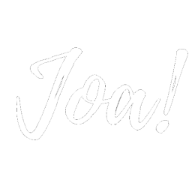
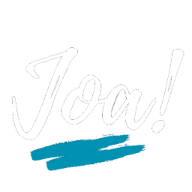
Componente Home listo

diff --git a/src/views/Home.jsx b/src/views/Home.jsx
@@ -2,8 +2,18 @@ function Home() {
 
   return (
     <>
-      <div className="min-h-views">
-        <h1 className="">Inicio</h1>
+      <div className="min-h-views text-white tracking-widest grid grid-cols-1 items-center justify-items-center">
+        <div className="col-1">
+          <p className="tracking-widest sm:text-xl">¡Hola! Soy</p><br />
+          <p className="font-bold text-2xl sm:text-5xl my-name">JOANNY WERNER</p>
+          <p className="tracking-tighter sm:text-2xl">Desarrollador Web</p><br />
+          <a 
+            className="bg-cyan-600 border-cyan-600 border-2 rounded p-2 hover:bg-gray-800 transition duration-700"
+            href='https://drive.google.com/file/d/1D6LUxy6Jf_bU7ZhK62MqDn_HrATOVz3m/view?usp=sharing'
+            target="_blank">
+              Descargar CV
+          </a>
+        </div>
       </div>
     </>
   )

diff --git a/src/views/Portfolio.jsx b/src/views/Portfolio.jsx
@@ -2,8 +2,11 @@ function Portfolio() {
 
   return (
     <>
-      <div className="min-h-views">
-        <h1 className="">Portafolio</h1>
+      <div className="min-h-views text-white tracking-widest grid grid-cols-1 items-center justify-items-center">
+        <div className="col-1 text-xl text-center">
+          <p className="tracking-widest">Portafolio</p><br />
+          <p className="tracking-tighter">Servicio en mantenimiento...</p>        
+        </div>
       </div>
     </>
   )

diff --git a/src/components/Navbar.jsx b/src/components/Navbar.jsx
@@ -74,7 +74,7 @@ export default function Navbar() {
                     <div className="flex-shrink-0">
                       <img
                         className="h-12 w-12"
-                        src="https://res.cloudinary.com/dqjnzfsp6/image/upload/v1685731491/logoJoa_urelec.png"
+                        src="https://res.cloudinary.com/dqjnzfsp6/image/upload/v1686012371/logoJoa-_hbupyw.png"
                         alt="My Logo"
                       />
                     </div>

diff --git a/src/views/About.jsx b/src/views/About.jsx
@@ -2,8 +2,11 @@ function About() {
 
   return (
     <>
-      <div className="min-h-views">
-        <h1 className="">Sobre Mí</h1>
+      <div className="min-h-views text-white tracking-widest grid grid-cols-1 items-center justify-items-center">
+        <div className="col-1 text-xl text-center">
+          <p className="tracking-widest">Sobre Mí</p><br />
+          <p className="tracking-tighter">Servicio en mantenimiento...</p>        
+        </div>
       </div>
     </>
   )

diff --git a/src/views/Contact.jsx b/src/views/Contact.jsx
@@ -2,8 +2,11 @@ function Contact() {
 
   return (
     <>
-      <div className="min-h-views">
-        <h1 className="">Contacto</h1>
+      <div className="min-h-views text-white tracking-widest grid grid-cols-1 items-center justify-items-center">
+        <div className="col-1 text-xl text-center">
+          <p className="tracking-widest">Contacto</p><br />
+          <p className="tracking-tighter">Servicio en mantenimiento...</p>        
+        </div>
       </div>
     </>
   )

diff --git a/src/components/Footer.jsx b/src/components/Footer.jsx
@@ -8,7 +8,7 @@ function Footer() {
       <div className="bg-gray-800 flex flex-col items-center min-h-footer">
         <img
           className="h-24 w-24"
-          src="https://res.cloudinary.com/dqjnzfsp6/image/upload/v1685731491/logoJoa_urelec.png"
+          src="https://res.cloudinary.com/dqjnzfsp6/image/upload/v1686012371/logoJoa-_hbupyw.png"
           alt="My Logo"
         />
         <div className="text-gray-800 w-full flex justify-center gap-5 mb-5">

diff --git a/src/views/Blog.jsx b/src/views/Blog.jsx
@@ -2,8 +2,11 @@ function Blog() {
 
   return (
     <>
-      <div className="">
-        <h1 className="">Blog</h1>
+      <div className="min-h-views text-white tracking-widest grid grid-cols-1 items-center justify-items-center">
+        <div className="col-1 text-xl text-center">
+          <p className="tracking-widest">Blog</p><br />
+          <p className="tracking-tighter">Servicio en mantenimiento...</p>        
+        </div>
       </div>
     </>
   )

diff --git a/src/style.css b/src/style.css
@@ -1,11 +1,20 @@
 .min-h-navbar {
-  min-height: 10vh;
+  min-height: 7vh;
 }
 
 .min-h-views {
-  min-height: 65vh;
+  min-height: 67vh;
+  background-color: #1F2937; /* Gray 800 */
 }
 
 .min-h-footer {
-  min-height: 25vh;
+  min-height: 26vh;
 }
+
+/*** component Home ***/
+
+.my-name {
+  text-shadow: 5px 3px 3px #334155; /* Slate 700 */
+}
+
+
